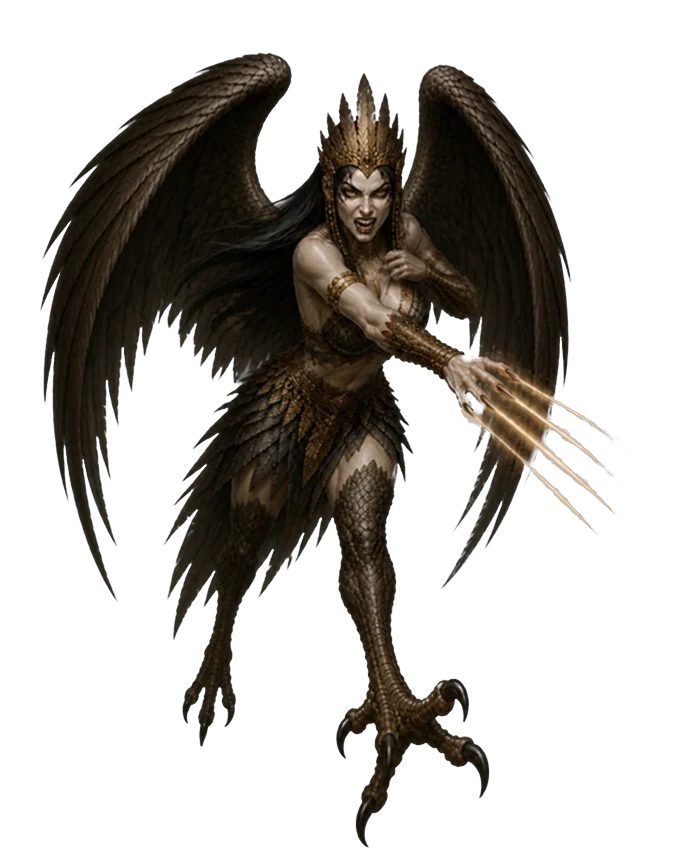
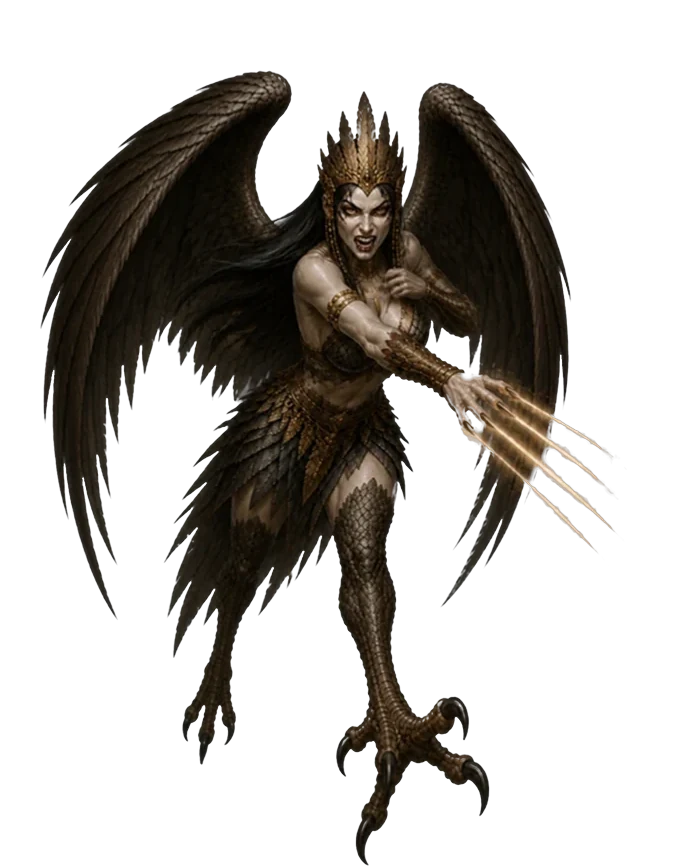
Implementa animação do druida e ajusta animação da harpia

diff --git a/src/styles/battle.css b/src/styles/battle.css
@@ -579,13 +579,13 @@
     --pose-height: 106.31%;
 }
 
-/* Harpia: figura de 404 x 840; poses de 692 x 848, a partir de (-112, -8). */
+/* Harpia: figura de 404 x 840; poses de 692 x 867, a partir de (-112, -26). */
 .bt-posed--harpia {
     aspect-ratio: 404 / 840;
     --pose-left: -27.72%;
-    --pose-top: -0.95%;
+    --pose-top: -3.10%;
     --pose-width: 171.29%;
-    --pose-height: 100.95%;
+    --pose-height: 103.21%;
 }
 
 /* Arqueiro: figura de 723 x 840; poses de 731 x 1109, a partir de (-4, -269). */
@@ -697,6 +697,33 @@
     /* A mão com o raio na Faísca: de onde o projétil sai (FxLayer). */
     --fx-hand-x: 1.204;
     --fx-hand-y: 0.308;
+}
+
+/* Druida: figura de 585 x 840; poses de 827 x 1004, a partir de (-100, -164). */
+.bt-posed--druida {
+    aspect-ratio: 585 / 840;
+    --pose-left: -17.09%;
+    --pose-top: -19.52%;
+    --pose-width: 141.37%;
+    --pose-height: 119.52%;
+}
+
+/* Druida, forma de urso: figura de 628 x 840; poses de 846 x 888, a partir de (-99, -46). */
+.bt-posed--druida-urso {
+    aspect-ratio: 628 / 840;
+    --pose-left: -15.76%;
+    --pose-top: -5.48%;
+    --pose-width: 134.71%;
+    --pose-height: 105.71%;
+}
+
+/* Druida, forma de lobo: figura de 617 x 840; poses de 876 x 840, a partir de (-138, 0). */
+.bt-posed--druida-lobo {
+    aspect-ratio: 617 / 840;
+    --pose-left: -22.37%;
+    --pose-top: 0%;
+    --pose-width: 141.98%;
+    --pose-height: 100%;
 }
 
 /* Bárbaro: figura de 856 x 840 (com o machado grande); poses de 901 x 1173, a partir de (35, -333). */
@@ -1193,6 +1220,107 @@
     94%,
     100% {
         opacity: 0;
+    }
+}
+
+/*
+ * Transformação (o Druida virando urso ou lobo, bt-unit--morphing): a forma
+ * nova tem os quadros shift-0 (o Druida como estava parado), shift-1 e
+ * shift-2 (virando o bicho), e só no fim aparece a figura parada da forma.
+ * Sem o clarão que cresce do zero (bt-morph): a figura não encolhe, só brilha
+ * na troca. A habilidade de transformar ainda está ativa neste beat, então as
+ * outras poses da forma (o rugido do urso, por exemplo) ficam apagadas.
+ */
+.bt-unit.bt-unit--morphing .bt-unit__sprite:has(.bt-posed__pose--shift-1) {
+    animation: bt-shift-glow 1.1s ease-out;
+}
+
+.bt-unit--morphing .bt-posed:has(.bt-posed__pose--shift-1) .bt-posed__still {
+    animation: bt-shift-still 1.1s linear !important;
+}
+
+.bt-unit--morphing .bt-posed:has(.bt-posed__pose--shift-1) .bt-posed__pose {
+    animation: none !important;
+    opacity: 0;
+}
+
+.bt-unit--morphing .bt-posed:has(.bt-posed__pose--shift-1) .bt-posed__pose.bt-posed__pose--shift-0 {
+    animation: bt-shift-0 1.1s linear !important;
+}
+
+.bt-unit--morphing .bt-posed:has(.bt-posed__pose--shift-1) .bt-posed__pose.bt-posed__pose--shift-1 {
+    animation: bt-shift-1 1.1s linear !important;
+}
+
+.bt-unit--morphing .bt-posed:has(.bt-posed__pose--shift-1) .bt-posed__pose.bt-posed__pose--shift-2 {
+    animation: bt-shift-2 1.1s linear !important;
+}
+
+/* Cada quadro novo já está inteiro quando o anterior começa a sumir: a figura nunca fica transparente. */
+@keyframes bt-shift-0 {
+    0%,
+    14% {
+        opacity: 1;
+    }
+    17%,
+    100% {
+        opacity: 0;
+    }
+}
+
+@keyframes bt-shift-1 {
+    0%,
+    10% {
+        opacity: 0;
+    }
+    14%,
+    44% {
+        opacity: 1;
+    }
+    47%,
+    100% {
+        opacity: 0;
+    }
+}
+
+@keyframes bt-shift-2 {
+    0%,
+    40% {
+        opacity: 0;
+    }
+    44%,
+    80% {
+        opacity: 1;
+    }
+    83%,
+    100% {
+        opacity: 0;
+    }
+}
+
+@keyframes bt-shift-still {
+    0%,
+    76% {
+        opacity: 0;
+    }
+    80%,
+    100% {
+        opacity: 1;
+    }
+}
+
+@keyframes bt-shift-glow {
+    0% {
+        filter: drop-shadow(0 3px 4px rgb(28 26 43 / 0.4));
+    }
+    12% {
+        filter: brightness(1.7) drop-shadow(0 0 16px #b8e86a);
+    }
+    45% {
+        filter: brightness(1.2) drop-shadow(0 0 12px #b8e86a);
+    }
+    100% {
+        filter: drop-shadow(0 3px 4px rgb(28 26 43 / 0.4));
     }
 }
 

diff --git a/src/components/battle/artFiles.ts b/src/components/battle/artFiles.ts
@@ -16,6 +16,10 @@
  * <id>-pose-<momento>.webp (windup, strike, charge, cast, bolt, area e os quadros extras
  * heavy-windup, heavy-strike, cast-charge, rise-1, rise-2, rise-3, combo-1, combo-2, combo-3, bolt-end, area-start, area-charge, area-end), trocados durante a
  * animação em battle.css. Ver getPoseFrames.
+ *
+ * As formas têm poses próprias, com o id da forma no nome:
+ * druida-urso-pose-strike.webp. A transformação usa os quadros shift-0 (o
+ * personagem antes, como aparece parado), shift-1 e shift-2, da forma nova.
  */
 export type ArtKind = 'figure' | 'face' | 'card';
 
@@ -61,27 +65,31 @@ export type PoseName =
     | 'area-end'
     | 'rise-1'
     | 'rise-2'
-    | 'rise-3';
+    | 'rise-3'
+    | 'shift-0'
+    | 'shift-1'
+    | 'shift-2';
 
-const POSES: PoseName[] = ['windup', 'strike', 'heavy-windup', 'heavy-strike', 'combo-1', 'combo-2', 'combo-3', 'charge', 'cast-charge', 'cast', 'bolt', 'bolt-end', 'area-start', 'area-charge', 'area', 'area-end', 'rise-1', 'rise-2', 'rise-3'];
+const POSES: PoseName[] = ['windup', 'strike', 'heavy-windup', 'heavy-strike', 'combo-1', 'combo-2', 'combo-3', 'charge', 'cast-charge', 'cast', 'bolt', 'bolt-end', 'area-start', 'area-charge', 'area', 'area-end', 'rise-1', 'rise-2', 'rise-3', 'shift-0', 'shift-1', 'shift-2'];
 
 /**
  * Os desenhos de cada momento da ação (preparar e acertar o golpe; juntar,
  * lançar a magia; o projétil e a magia em área podem ter pose própria),
- * ou null se o personagem não tem nenhum. A forma de quem se transforma não
- * tem poses: nela vale a figura parada.
+ * ou null se o personagem não tem nenhum. Na forma de quem se transforma,
+ * valem as poses da forma (druida-urso-pose-*), se houver.
  */
-/** O id com que as ilustrações do personagem foram salvas (ids antigos apontam para o nome novo). */
-export function getArtId(characterId: string): string {
-    return RENAMED[characterId] ?? characterId;
+/**
+ * O id com que as ilustrações do personagem foram salvas (ids antigos apontam
+ * para o nome novo). Com `form`, o da forma: druida-urso.
+ */
+export function getArtId(characterId: string, form?: string): string {
+    const id = RENAMED[characterId] ?? characterId;
+
+    return form === undefined ? id : `${id}-${form}`;
 }
 
 export function getPoseFrames(characterId: string, form?: string): { pose: PoseName; src: string }[] | null {
-    if (form !== undefined) {
-        return null;
-    }
-
-    const id = RENAMED[characterId] ?? characterId;
+    const id = getArtId(characterId, form);
     const frames = POSES.flatMap((pose) => {
         const src = ART.get(`${id}-pose-${pose}`);
 
@@ -97,4 +105,25 @@ export function getCharacterArt(characterId: string, kind: ArtKind, form?: strin
     const find = (name: string) => ART.get(kind === 'figure' ? name : `${name}-${kind}`);
 
     return (form === undefined ? undefined : find(`${id}-${form}`)) ?? find(id);
+}
+
+/** As imagens já pedidas ao navegador, guardadas para ele não descartar. */
+const preloaded = new Map<string, HTMLImageElement>();
+
+/**
+ * Carrega antes as imagens de uma forma (a figura e as poses), para a
+ * transformação não mostrar a figura vazia enquanto elas chegam.
+ */
+export function preloadForm(characterId: string, form: string): void {
+    const urls = [getCharacterArt(characterId, 'figure', form), ...(getPoseFrames(characterId, form) ?? []).map((frame) => frame.src)];
+
+    for (const url of urls) {
+        if (!url || preloaded.has(url)) continue;
+
+        const image = new Image();
+
+        image.src = url;
+        image.decode().catch(() => undefined);
+        preloaded.set(url, image);
+    }
 }

diff --git a/src/components/battle/UnitToken.tsx b/src/components/battle/UnitToken.tsx
@@ -1,5 +1,7 @@
+import { useEffect } from 'react';
 import { useTranslation } from 'react-i18next';
 import { CharacterArt } from './CharacterArt';
+import { preloadForm } from './artFiles';
 import { ImpactFx } from './ImpactFx';
 import { StatusBadges } from './StatusBadges';
 import type { Impact, SkillFx } from '@/battle/fx';
@@ -39,6 +41,13 @@ function hpColor(ratio: number): string {
 /** Uma unidade no campo: desenho, nome, barra de vida e os números que sobem. */
 export function UnitToken({ unit, units, isActive, acting, isHit, isHealed, isMorphing, isFalling, isTargetable, isCoachTarget = false, preview, impact, floaters, onSelect }: UnitTokenProps) {
     const { t } = useTranslation();
+    const formIds = unit.forms?.map((form) => form.id).join(',') ?? '';
+
+    // Quem se transforma: as imagens das formas já ficam carregadas para a troca.
+    useEffect(() => {
+        for (const form of formIds.split(',').filter(Boolean)) preloadForm(unit.characterId, form);
+    }, [unit.characterId, formIds]);
+
     const ratio = unit.hp / unit.stats.maxHp;
     const isDown = unit.hp <= 0;
     const statuses = unit.statuses ?? [];
@@ -103,7 +112,8 @@ export function UnitToken({ unit, units, isActive, acting, isHit, isHealed, isMo
             {/* A figura é maior que a área clicável e passa por cima das vizinhas. */}
             <span className='bt-unit__stage'>
                 <span className='bt-unit__shadow' aria-hidden='true' />
-                <CharacterArt characterId={unit.characterId} form={unit.form} kind='figure' className='bt-unit__sprite' />
+                {/* A chave troca a figura inteira quando a forma muda: as poses da forma nova começam do zero. */}
+                <CharacterArt key={unit.form ?? ''} characterId={unit.characterId} form={unit.form} kind='figure' className='bt-unit__sprite' />
 
                 {impact && <ImpactFx key={impact.id} impact={impact} />}
 

diff --git a/src/battle/playback.ts b/src/battle/playback.ts
@@ -29,6 +29,8 @@ const BEAT_DURATION = {
     turn_timed_out: 900,
     surrendered: 500,
     effects: 800,
+    /** Efeitos com uma transformação: os quadros da troca de forma (o Druida virando urso) levam mais tempo. */
+    transformed: 1100,
     battle_ended: 300,
 } as const;
 
@@ -107,6 +109,12 @@ export function toBeats(events: BattleEvent[]): Beat[] {
         const kind = event.type === 'turn_started' && event.fury > 0 ? 'berserk_turn' : event.type;
 
         beats.push({ events: [event], duration: BEAT_DURATION[kind as keyof typeof BEAT_DURATION] });
+    }
+
+    for (const beat of beats) {
+        if (beat.events.some((event) => event.type === 'transformed')) {
+            beat.duration = Math.max(beat.duration, BEAT_DURATION.transformed);
+        }
     }
 
     return beats;

diff --git a/src/components/battle/CharacterArt.tsx b/src/components/battle/CharacterArt.tsx
@@ -23,7 +23,7 @@ export function CharacterArt({ characterId, kind, form, className = '' }: Charac
     // momento, que battle.css mostra uma de cada vez durante o golpe ou a magia.
     if (src && poses) {
         return (
-            <span className={`${className} bt-art--figure bt-posed bt-posed--${getArtId(characterId)}`} aria-hidden='true'>
+            <span className={`${className} bt-art--figure bt-posed bt-posed--${getArtId(characterId, form)}`} aria-hidden='true'>
                 <img src={src} alt='' draggable={false} className='bt-posed__still' />
                 {poses.map(({ pose, src: frame }) => (
                     <img key={pose} src={frame} alt='' draggable={false} className={`bt-posed__pose bt-posed__pose--${pose}`} />

diff --git a/src/assets/characters/README.md b/src/assets/characters/README.md
@@ -32,8 +32,10 @@ Cuidados para a figura combinar com as outras:
 
 ## Poses de ação
 
+As formas têm poses próprias, com o id da forma no nome (`druida-urso-pose-strike.webp`).
+
 Além da figura parada, um personagem pode ter desenhos de cada momento da
-ação, trocados durante a animação (hoje, a Inquisidora, o Piromante, o Sacerdote, o Vampiro, o Ladino, o Cavaleiro, a Súcubo, a Harpia, o Arqueiro, o Espadachim, o Bárbaro, a Banshee, o Necromante, o Guerreiro Esqueleto, o Guardião, o Criomante, a Dríade, o Paladino, o Bardo e o Xamã):
+ação, trocados durante a animação (hoje, a Inquisidora, o Piromante, o Sacerdote, o Vampiro, o Ladino, o Cavaleiro, a Súcubo, a Harpia, o Arqueiro, o Espadachim, o Bárbaro, a Banshee, o Necromante, o Guerreiro Esqueleto, o Guardião, o Criomante, a Dríade, o Paladino, o Bardo, o Xamã e o Druida, com as formas de urso e de lobo):
 
 | Arquivo | Quando aparece |
 | --- | --- |
@@ -41,6 +43,7 @@ ação, trocados durante a animação (hoje, a Inquisidora, o Piromante, o Sacer
 | `<id>-pose-strike.webp` | Golpe corpo a corpo: o golpe acertando (avanço). |
 | `<id>-pose-cast-charge.webp` | Magia de suporte (sem projétil nem área, como o Erguer Esqueleto): no lugar da `charge` (opcional). |
 | `<id>-pose-rise-1.webp`, `-rise-2`, `-rise-3` | Invocação surgindo em campo (o Guerreiro Esqueleto): saindo do chão, de joelhos e em guarda, antes da figura parada (opcionais; vale ter os três). |
+| `<id>-<forma>-pose-shift-0.webp`, `-shift-1`, `-shift-2` | Transformação (o Druida virando urso ou lobo), nos arquivos da forma nova: o personagem como está parado, virando o bicho e quase bicho, antes da figura parada da forma (vale ter os três). |
 | `<id>-pose-heavy-windup.webp`, `-heavy-strike` | Golpe corpo a corpo que gasta energia (o Golpe Trovejante): no lugar da `windup` e da `strike` do ataque básico (opcionais; a que faltar fica com a do básico). |
 | `<id>-pose-combo-1.webp`, `-combo-2`, `-combo-3` | Golpe de vários acertos no mesmo alvo (a Dança das Lâminas): um quadro por golpe, depois da `windup`, no lugar da `strike` (opcionais; vale ter os três). |
 | `<id>-pose-charge.webp` | Magia: juntando a magia, antes de lançar (opcional). |
